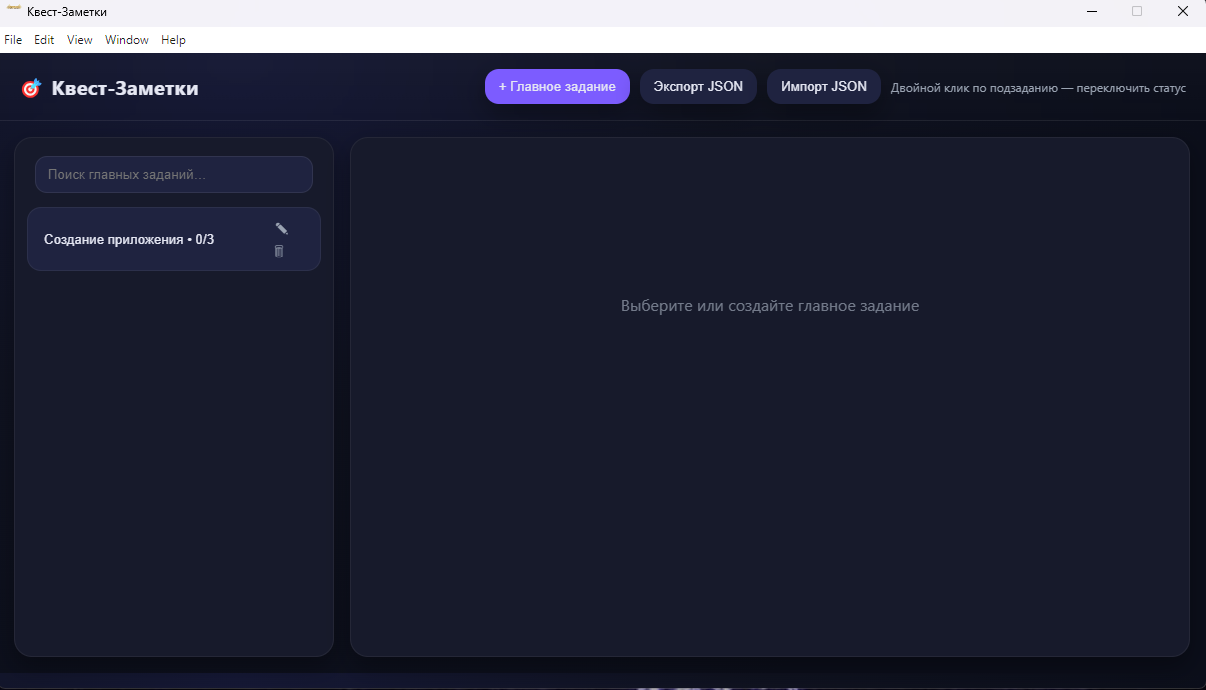
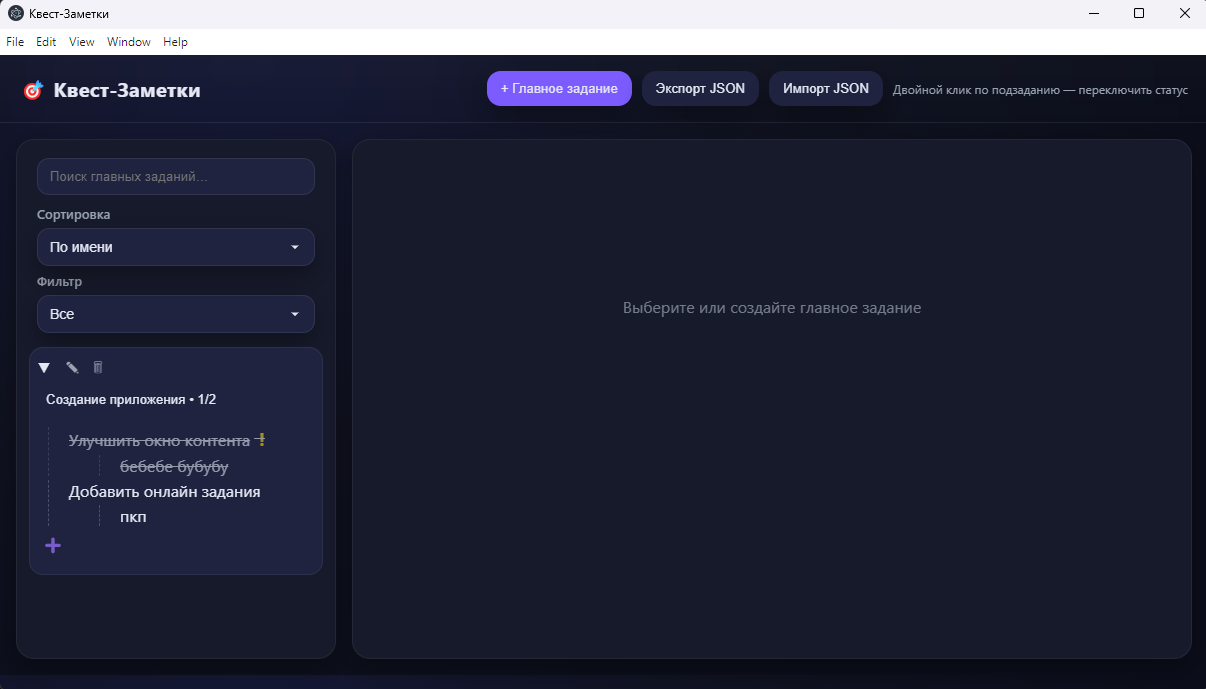
readme2

diff --git a/README.md b/README.md
@@ -14,12 +14,13 @@
 - ✅ Поиск по задачам  
 - ✅ Импорт / экспорт данных в формате JSON  
 - ✅ Автосохранение в локальные файлы  
+- ✅ Сортировка и фильтр заданий
 
 ---
 
 ## 🖼 Скриншоты
 
-| Главный экран | Добавление задачи |
+| Главный экран | Меню задания |
 |---------------|-------------------|
 | ![screenshot1](./screenshots/screen1.png) | ![screenshot2](./screenshots/screen2.png) |
 
